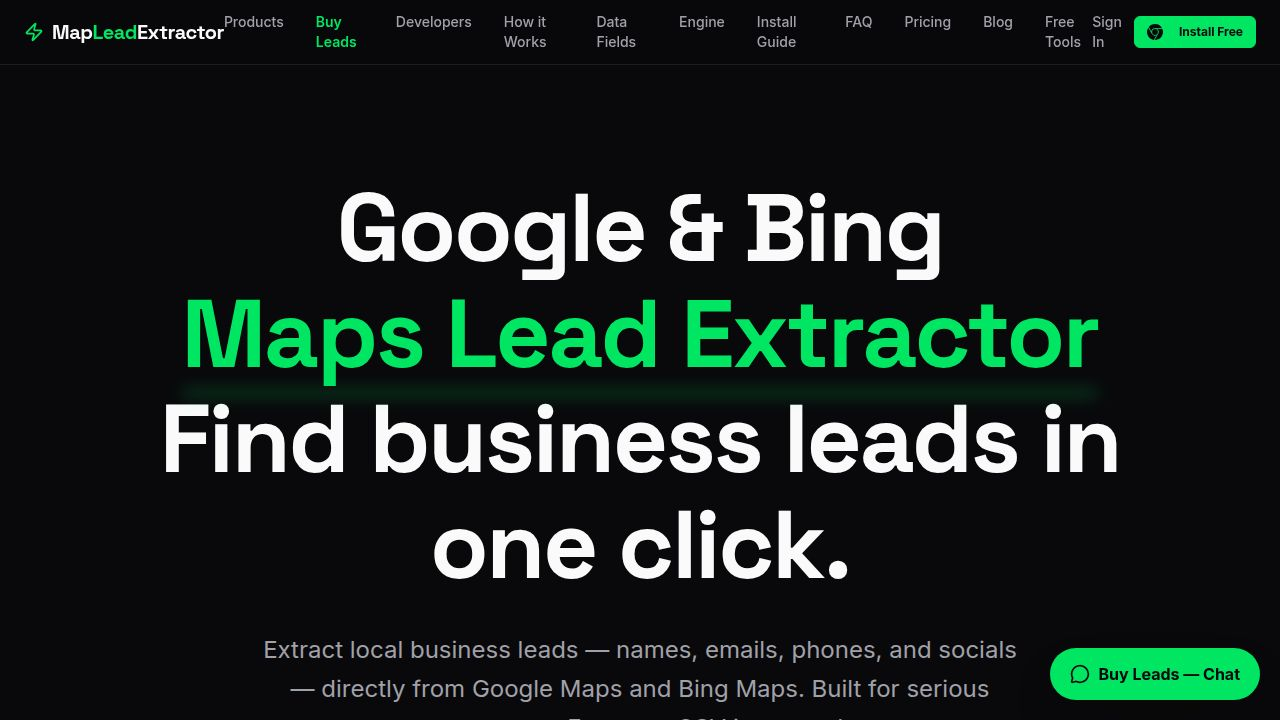
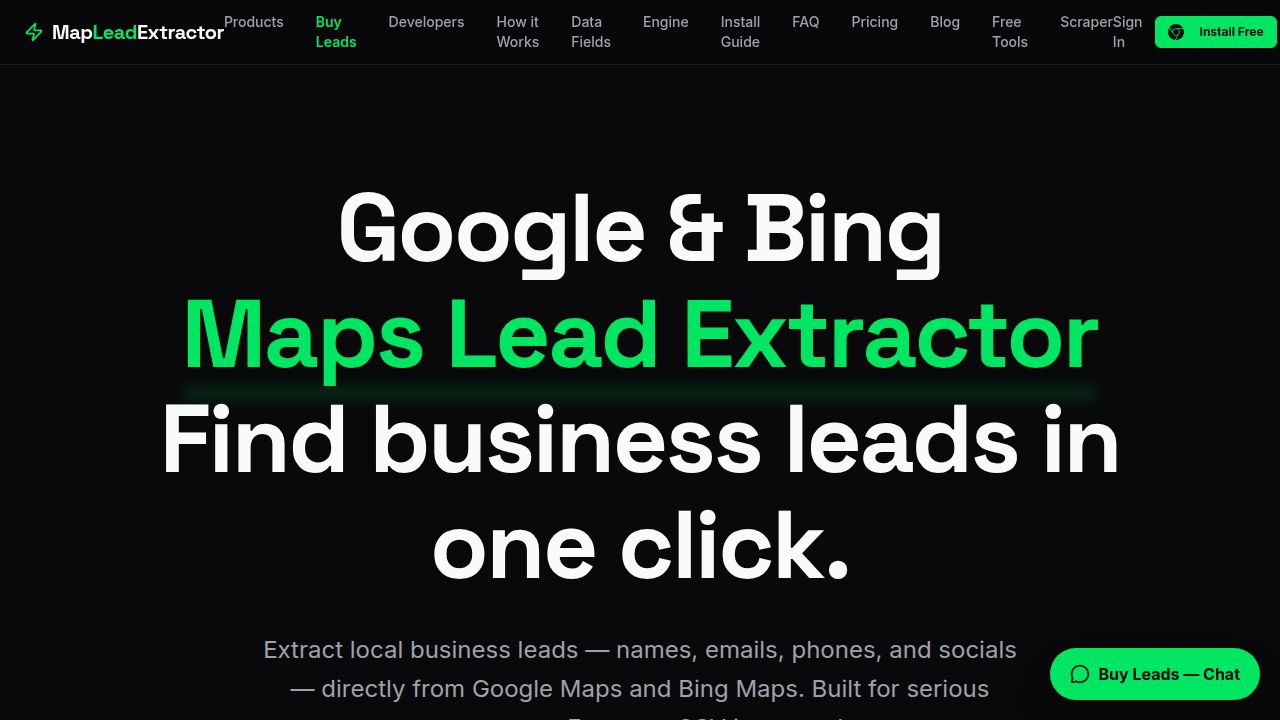
Add verification seals for browser extension listings
Add a new reusable `ChromeStoreSeal` component to display verified listing seals for browser extensions on the website, including configuration updates for local development environment commands.

Replit-Commit-Author: Agent
Replit-Commit-Session-Id: 36cd7775-c7fc-4ab2-a6f0-cc24c6d11292
Replit-Commit-Checkpoint-Type: full_checkpoint
Replit-Commit-Event-Id: 1e55b3c8-bb37-468d-91df-e02529c6832b
Replit-Commit-Screenshot-Url: https://storage.googleapis.com/screenshot-production-us-central1/e741d6c1-8f3f-4962-b4bd-5ddd513018fb/36cd7775-c7fc-4ab2-a6f0-cc24c6d11292/UIZgLlE
Replit-Helium-Checkpoint-Created: true

Changed region(s): [[0.3125, 0.0, 0.625, 0.0611], [0.7812, 0.0, 1.0, 0.0917], [0.6562, 0.0, 0.75, 0.0611]]

diff --git a/artifacts/lead-extractor-site/src/pages/home.tsx b/artifacts/lead-extractor-site/src/pages/home.tsx
@@ -30,6 +30,25 @@ const YELP_STORE_URL = "https://chromewebstore.google.com/detail/yelp-lead-extra
 
 const basePath = import.meta.env.BASE_URL.replace(/\/$/, "");
 
+// Official-listing trust seal shown beside every extension install button —
+// links straight to the Chrome Web Store listing it vouches for.
+function ChromeStoreSeal({ href, testId, className = "" }: { href: string; testId: string; className?: string }) {
+  return (
+    <a href={href} target="_blank" rel="noopener noreferrer" data-testid={testId}
+      className={`inline-flex items-center gap-2.5 px-4 py-2 rounded-lg bg-card border border-border hover:border-primary/50 transition-colors ${className}`}>
+      <SiGooglechrome className="w-5 h-5 shrink-0" />
+      <span className="text-left leading-tight">
+        <span className="block text-[10px] uppercase tracking-widest text-muted-foreground">Available in the</span>
+        <span className="block text-sm font-bold">Chrome Web Store</span>
+      </span>
+      <span className="flex items-center gap-1 pl-2.5 ml-0.5 border-l border-border text-primary">
+        <CheckCircle2 className="w-4 h-4" />
+        <span className="text-[10px] font-semibold uppercase tracking-wide">Verified<br/>listing</span>
+      </span>
+    </a>
+  );
+}
+
 // Business types for the lead-pack dropdown. `value` is the search term the
 // API matches against lead categories — keep in sync with PACK_CATEGORIES in
 // api-server/src/routes/stripe.ts.
@@ -356,7 +375,10 @@ export default function Home() {
                       <SiGooglechrome className="mr-3 h-6 w-6" /> Add to Chrome — It's Free
                     </a>
                   </Button>
-                  <p className="text-sm text-muted-foreground font-mono">v1.2.3 Google • v2.5.5 Bing</p>
+                  <div className="flex flex-col items-center sm:items-start gap-2">
+                    <ChromeStoreSeal href={STORE_URL} testId="seal-hero-cws" />
+                    <p className="text-sm text-muted-foreground font-mono">v1.2.3 Google • v2.5.5 Bing</p>
+                  </div>
                 </motion.div>
 
                 {/* Promo Screenshots */}
@@ -491,6 +513,7 @@ export default function Home() {
                     <Button variant="outline" className="w-full h-12 text-md group-hover:bg-primary group-hover:text-primary-foreground group-hover:border-primary transition-all" asChild>
                       <a href={STORE_URL} target="_blank" rel="noopener noreferrer" data-testid="link-google-install">Install Extractor</a>
                     </Button>
+                    <div className="mt-4 flex justify-center"><ChromeStoreSeal href={STORE_URL} testId="seal-google-cws" /></div>
                   </CardContent>
                 </Card>
               </motion.div>
@@ -519,6 +542,7 @@ export default function Home() {
                     <Button variant="outline" className="w-full h-12 text-md group-hover:bg-primary group-hover:text-primary-foreground group-hover:border-primary transition-all" asChild>
                       <a href={STORE_URL} target="_blank" rel="noopener noreferrer" data-testid="link-bing-install">Install Extractor</a>
                     </Button>
+                    <div className="mt-4 flex justify-center"><ChromeStoreSeal href={STORE_URL} testId="seal-bing-cws" /></div>
                   </CardContent>
                 </Card>
               </motion.div>
@@ -547,6 +571,7 @@ export default function Home() {
                     <Button variant="outline" className="w-full h-12 text-md group-hover:bg-primary group-hover:text-primary-foreground group-hover:border-primary transition-all" asChild>
                       <a href={YELP_STORE_URL} target="_blank" rel="noopener noreferrer" data-testid="link-yelp-install">Install Extractor</a>
                     </Button>
+                    <div className="mt-4 flex justify-center"><ChromeStoreSeal href={YELP_STORE_URL} testId="seal-yelp-cws" /></div>
                   </CardContent>
                 </Card>
               </motion.div>